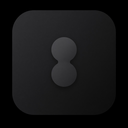
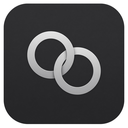
Show Integrations, Skills, Help, Library, and Scheduled as solid cards.

diff --git a/src/components/mind/command-app.tsx b/src/components/mind/command-app.tsx
@@ -404,9 +404,96 @@ function statusWord(status: CapabilityStatus) {
   if (status === "blocked") return "Blocked";
   if (status === "unconfigured") return "Not configured";
   if (status === "local_required") return "Local only";
-  if (status === "paid_required") return "Paid, not called";
-  return "Not implemented";
+ if (status === "paid_required") return "Paid, not called";
+ return "Not implemented";
 }
+
+const CAPABILITY_MARK: Record<string, string> = {
+  "chat.grok": "grok",
+  "chat.openai": "openai",
+  "chat.anthropic": "claude",
+  "chat.gemini": "gemini",
+  "chat.openrouter": "openrouter",
+  "chat.local": "computer",
+  policy: "safety",
+  memory: "memory",
+  supabase: "datasource",
+  rea: "tools",
+  pc: "computer",
+  research: "research",
+  agents: "bots",
+  "agents.planner": "plan",
+  "agents.worker": "bots",
+  "agents.hosted": "vercel",
+  "browser.inspect": "browser",
+  gmail: "gmail",
+  image: "media",
+  video: "media",
+  voice: "voice",
+  "shell.palette": "search",
+  "shell.pins": "recent",
+  "chat.router": "connections",
+  notion: "notion",
+  "build.workspace": "build",
+};
+
+const CAPABILITY_PAGE: Partial<Record<string, View>> = {
+  "chat.grok": "connected",
+  "chat.openai": "settings",
+  "chat.anthropic": "settings",
+  "chat.gemini": "settings",
+  "chat.openrouter": "settings",
+  "chat.local": "connected",
+  policy: "settings",
+  memory: "memory",
+  pc: "connected",
+  research: "research",
+  agents: "agents",
+  "agents.planner": "agents",
+  "agents.worker": "agents",
+  "agents.hosted": "agents",
+  "browser.inspect": "tools",
+  gmail: "connected",
+  image: "connected",
+  video: "connected",
+  voice: "settings",
+  "shell.palette": "command",
+  "chat.router": "settings",
+  notion: "connected",
+  "build.workspace": "build",
+};
+
+const CAPABILITY_CONNECT: Partial<Record<string, string>> = {
+  "chat.openai": "OpenAI",
+  "chat.anthropic": "Claude",
+  "chat.gemini": "Gemini",
+  "chat.openrouter": "OpenRouter",
+  notion: "Notion",
+};
+
+function openCapability(id: string, setView: (view: View) => void, setSettingsPane: (pane: null | "general" | "connections" | "voice" | "pages" | "data" | "safety") => void) {
+  const page = CAPABILITY_PAGE[id];
+  if (!page) return;
+  const connect = CAPABILITY_CONNECT[id];
+  setView(page);
+  setSettingsPane(page !== "settings" ? null : id === "voice" ? "voice" : connect ? "connections" : null);
+  if (connect) {
+    window.setTimeout(() => {
+      window.dispatchEvent(new CustomEvent("adrian-open-connect", { detail: { name: connect } }));
+      document.getElementById(connect === "Notion" ? "owner-notion-search" : "owner-api-connect")?.scrollIntoView({ block: "center" });
+    }, 60);
+  }
+}
+
+const SKILL_MARK: Record<string, string> = {
+  projects: "projects",
+  chats: "chat",
+  notes: "memory",
+  notion: "notion",
+  browser: "browser",
+  voice: "voice",
+  gmail: "gmail",
+};
 
 function humanAction(action: string) {
   const map: Record<string, string> = {
@@ -4874,7 +4961,7 @@ export function CommandApp() {
                 <span className="rounded-panel bg-accent px-3 py-2 text-sm text-white">On this device ({ws.projects.length})</span>
                 <span className="rounded-panel border border-line px-3 py-2 text-sm text-muted">External (2) · unchanged</span>
               </div>
-              <div className="mt-4 grid gap-3 lg:grid-cols-2">
+              <div id="owner-projects">
                 {ws.projects.length === 0 && (
                   <article className="empty-state lg:col-span-2">
                     <img src="/empty/empty-folder.svg" alt="" />
@@ -5380,13 +5467,16 @@ export function CommandApp() {
                 </div>
               </div>
               <input value={skillQuery} onChange={(event) => setSkillQuery(event.target.value)} placeholder="Search skills" className="min-h-11 w-full rounded-panel border border-line bg-surface px-3 text-sm" />
-              <div className="grid gap-3 md:grid-cols-2">
+              <div id="owner-skills">
                 {(skillQuery.trim() ? searchSkills(skillQuery) : SKILLS).map((skill) => {
                   const on = skill.kind === "built-in" && enabledSkills[skill.id] !== false;
                   return (
-                    <article key={skill.id} className="dense-card p-3">
-                      <div className="flex items-center justify-between gap-2">
-                        <h3 className="font-semibold">{skill.name}</h3>
+                    <article key={skill.id} className="skill-card">
+                      <div className="flex items-start justify-between gap-3">
+                        <div className="flex min-w-0 items-center gap-3">
+                          <img src={`/brand/marks/${SKILL_MARK[skill.id] ?? "skills"}.png`} alt="" className="size-8 shrink-0 rounded-lg" />
+                          <h3 className="font-semibold">{skill.name}</h3>
+                        </div>
                         <span className="rounded-full border border-line px-2 py-0.5 text-xs text-muted">{skill.kind === "built-in" ? (on ? "On" : "Off") : "Not installed"}</span>
                       </div>
                       <p className="mt-2 text-sm">{skill.description}</p>
@@ -5424,7 +5514,10 @@ export function CommandApp() {
               </div>
               {skillStorageError && <p className="rounded-panel border border-danger/40 p-3 text-sm text-danger" role="alert">{skillStorageError}</p>}
               {notice && <p className="voice-copy rounded-panel border border-line bg-surface px-3 py-2 text-sm text-muted">{presentVoiceCopy(notice)}</p>}
-              <LocalSkillsTools skills={SKILLS} enabledSkills={Object.fromEntries(SKILLS.map((skill) => [skill.id, skill.kind === "built-in" && enabledSkills[skill.id] !== false]))} />
+              <details className="owner-fold">
+                <summary>Draft library</summary>
+                <LocalSkillsTools skills={SKILLS} enabledSkills={Object.fromEntries(SKILLS.map((skill) => [skill.id, skill.kind === "built-in" && enabledSkills[skill.id] !== false]))} />
+              </details>
           </section>
           {view === "files" && (
             <section className="page-shell">
@@ -5441,8 +5534,8 @@ export function CommandApp() {
                   <button type="button" className="min-h-11 rounded-panel border border-line px-4 text-sm" onClick={() => setCloudPickerOpen(true)}>Browse Drive</button>
                 </div>
               </div>
-              <div className="mt-4 grid gap-3 lg:grid-cols-[16rem_1fr]">
-                <aside className="dense-card card-texture p-3 text-sm">
+              <div id="owner-library">
+                <aside className="library-list text-sm">
                   <p className="font-semibold">Text copies</p>
                   <p className="mt-2 text-xs text-muted">These are the words you attached, not the original file and not a cloud drive.</p>
                   <ul className="mt-3 space-y-1">
@@ -5503,23 +5596,31 @@ export function CommandApp() {
                   <img src="/brand/marks/integrations.png" alt="" className="size-8 rounded-lg" />
                   <div>
                     <h2 className="font-display text-3xl font-bold">Integrations</h2>
-                    <p className="text-sm text-muted">{system}</p>
                     <p className="text-xs text-muted">Last check {stamp(checkedAt) || checkedAt}. Green means that behavior was verified here. Configured means a key or setting exists and a live call was not verified.</p>
                   </div>
                 </div>
               </div>
-              <div className="mt-4 grid gap-3 sm:grid-cols-2 xl:grid-cols-3">
+              <div id="owner-integrations" className="mt-4 grid gap-3 sm:grid-cols-2 xl:grid-cols-3">
                 {CAPABILITIES.map((item) => {
                   const live = isVerifiedCapability(item.status);
+                  const page = CAPABILITY_PAGE[item.id];
                   return (
-                    <article key={item.id} className="dense-card card-texture p-4">
-                      <div className="flex items-center justify-between gap-3">
-                        <h3 className="text-sm font-semibold">{item.name}</h3>
+                    <article key={item.id} className="integration-card">
+                      <div className="flex items-start justify-between gap-3">
+                        <div className="flex min-w-0 items-center gap-3">
+                          <img src={`/brand/marks/${CAPABILITY_MARK[item.id] ?? "integrations"}.png`} alt="" className="size-8 shrink-0 rounded-lg" />
+                          <h3 className="text-sm font-semibold">{item.name}</h3>
+                        </div>
                         <span className={`rounded-full border px-2 py-0.5 text-xs ${live ? "border-ok/40 text-ok" : item.status === "blocked" || item.status === "paid_required" ? "border-danger/40 text-danger" : "border-line text-muted"}`}>
                           {statusWord(item.status)}
                         </span>
                       </div>
                       <p className="mt-2 text-sm text-muted">{item.why}</p>
+                      {page && (
+                        <button type="button" className="mt-3 min-h-11 rounded-panel border border-line px-3 text-sm" onClick={() => openCapability(item.id, setView, setSettingsPane)}>
+                          {CAPABILITY_CONNECT[item.id] ? "Set up" : "Open"}
+                        </button>
+                      )}
                     </article>
                   );
                 })}
@@ -5583,7 +5684,7 @@ export function CommandApp() {
                 aria-label="Search help"
                 className="input-glow min-h-11 w-full rounded-panel border border-line bg-surface/80 px-3 text-sm"
               />
-              <div className="divide-y divide-white/8 overflow-hidden rounded-xl border border-white/8">
+              <div id="owner-help">
                 {[
                   { id: "chat", label: "Send a chat", detail: "Type in the field and press Enter, or press the blue button. An empty field opens Speak.", mark: "/brand/marks/chat.png", open: () => setView("command") },
                   { id: "speak", label: "Speak", detail: "Opens the call screen with camera, screen share, mute, and end.", mark: "/brand/marks/speak.png", open: () => setSpeakStageOpen(true) },
@@ -5612,8 +5713,13 @@ export function CommandApp() {
           {view === "settings" && (
             <section className="page-shell mx-auto max-w-3xl space-y-4">
               <div className="page-hero">
-                <h2 className="font-display text-3xl font-bold">Settings</h2>
-                <p className="text-sm text-muted">Preferences stay in this browser. Server keys are not edited here.</p>
+                <div className="flex items-center gap-3">
+                  <img src="/brand/marks/settings.png" alt="" className="size-8 rounded-lg" />
+                  <div>
+                    <h2 className="font-display text-3xl font-bold">Settings</h2>
+                    <p className="text-sm text-muted">Preferences stay in this browser. Server keys are not edited here.</p>
+                  </div>
+                </div>
               </div>
               <nav className="settings-index" aria-label="Settings sections" hidden={settingsPane !== null}>
                 {[

diff --git a/src/components/mind/fleet-panels.tsx b/src/components/mind/fleet-panels.tsx
@@ -669,19 +669,13 @@ export function FleetPanel({
   }
 
   if (mode === "scheduled") {
-    const workerDetail =
-      workerHealthState.status === "ready"
-        ? workerHealthState.health.detail
-        : workerHealthState.status === "loading"
-          ? "Checking the worker."
-          : null;
     return (
       <section className="page-shell">
         <div className="page-hero mb-4 flex items-center gap-3">
           <img src="/brand/marks/scheduled.png" alt="" className="size-8 rounded-lg" />
           <div>
             <h2 className="font-display text-3xl font-bold">Scheduled</h2>
-            <p className="text-sm text-muted">{workerDetail ? `${workerDetail} ` : ""}Jobs wait on this device. Nothing runs until you start it.</p>
+            <p className="text-sm text-muted">Jobs wait on this device. Nothing runs until you start it.</p>
           </div>
         </div>
         <ul className="mb-2 space-y-2">
@@ -691,9 +685,9 @@ export function FleetPanel({
           <summary className="min-h-11 cursor-pointer">Worker command</summary>
           <p className="pb-2 text-xs text-muted">One pass: node --experimental-strip-types scripts/schedule-tick.mjs. Stay up: node --experimental-strip-types scripts/schedule-worker.mjs. Interval: MIND_WORKER_INTERVAL_MS.</p>
         </details>
-        <div className="solid-form mt-4">
+        <div id="owner-scheduled" className="solid-form mt-4">
           <p className="text-sm text-muted">Add a daily job. It waits here until you run due schedules or the worker is started.</p>
-          <div className="mt-3 grid gap-2 sm:grid-cols-2 lg:grid-cols-4">
+          <div className="job-fields mt-3">
           <label className="text-sm">Name
             <input value={jobName} onChange={(event) => setJobName(event.target.value)} placeholder="Morning notes" aria-label="Job name" className="mt-1 min-h-11 w-full rounded-panel border border-line bg-surface px-3 text-sm" />
           </label>
@@ -737,7 +731,7 @@ export function FleetPanel({
           {ws.schedules.map((job) => (
             <li key={job.id} className="dense-card p-3 text-sm">
               <p className="font-semibold">{job.name}</p>
-              <p className="mt-1 text-sm text-muted">{job.enabled ? "On." : "Off."} {job.clockHour == null ? `Runs every ${job.intervalMinutes} minutes.` : `Runs daily at ${String(job.clockHour).padStart(2, "0")}:${String(job.clockMinute ?? 0).padStart(2, "0")} ${job.timeZone || "UTC"}.`}</p>
+              <p className="mt-1 text-sm text-muted">{job.enabled ? "On." : "Off."} {job.clockHour == null ? (job.intervalMinutes === 1440 ? "Runs once a day. Add an hour to choose the time." : `Runs every ${job.intervalMinutes} minutes.`) : `Runs daily at ${String(job.clockHour).padStart(2, "0")}:${String(job.clockMinute ?? 0).padStart(2, "0")} ${job.timeZone || "UTC"}.`}</p>
               <p className="text-sm text-muted">Next run {job.nextRunAt}. Last run {job.lastRunAt ?? "never"}. {job.lastError || "No error."}</p>
               <button type="button" className="mt-2 min-h-11 rounded-panel border border-line px-3 text-sm" onClick={() => setWs((prev) => setScheduleEnabled(prev, job.id, !job.enabled))}>{job.enabled ? "Turn off" : "Turn on"}</button>
             </li>
@@ -761,7 +755,7 @@ export function FleetPanel({
           </div>
         </div>
       </div>
-      <div className="mt-4 flex flex-wrap gap-2">
+      <div id="owner-tools" className="mt-4 flex flex-wrap gap-2">
         <input value={pageUrl} onChange={(event) => setPageUrl(event.target.value)} placeholder="https://example.com" className="min-h-11 min-w-0 flex-1 rounded-panel border border-line bg-surface px-3 text-sm" />
         <button
           type="button"

diff --git a/src/components/mind/gpt-shell.css b/src/components/mind/gpt-shell.css
@@ -1204,3 +1204,134 @@ form.thread-composer {
     min-height: 2.75rem !important;
   }
 }
+
+#owner-integrations {
+  display: grid !important;
+  grid-template-columns: minmax(0, 1fr) !important;
+  gap: 0.75rem !important;
+  margin-top: 1rem;
+}
+
+@media (min-width: 768px) {
+  #owner-integrations {
+    grid-template-columns: repeat(2, minmax(0, 1fr)) !important;
+  }
+}
+
+@media (min-width: 1100px) {
+  #owner-integrations {
+    grid-template-columns: repeat(3, minmax(0, 1fr)) !important;
+  }
+}
+
+#owner-integrations > .integration-card {
+  min-width: 0;
+  background: #141416 !important;
+  background-image: none !important;
+  border: 1px solid rgb(255 255 255 / 0.08) !important;
+  border-radius: 0.9rem !important;
+  padding: 0.9rem !important;
+}
+
+#owner-integrations > .integration-card p {
+  display: block !important;
+  overflow: visible !important;
+  white-space: normal !important;
+  -webkit-line-clamp: unset !important;
+  color: #a1a1aa !important;
+}
+
+#owner-integrations > .integration-card button {
+  background: #1c1c1f !important;
+  color: #f4f4f5 !important;
+  text-transform: none !important;
+}
+
+#owner-skills,
+#owner-projects,
+#owner-help,
+#owner-library {
+  display: grid !important;
+  grid-template-columns: minmax(0, 1fr) !important;
+  gap: 0.75rem !important;
+}
+
+@media (min-width: 900px) {
+  #owner-skills,
+  #owner-projects {
+    grid-template-columns: repeat(2, minmax(0, 1fr)) !important;
+  }
+
+  #owner-library {
+    grid-template-columns: 16rem minmax(0, 1fr) !important;
+  }
+}
+
+#owner-skills > .skill-card,
+#owner-projects > article,
+#owner-library > .library-list,
+#owner-library > div,
+#owner-scheduled,
+#owner-tools,
+.owner-fold {
+  min-width: 0;
+  background: #141416 !important;
+  background-image: none !important;
+  border: 1px solid rgb(255 255 255 / 0.08) !important;
+  border-radius: 0.9rem !important;
+  padding: 0.9rem !important;
+}
+
+#owner-help > button {
+  display: flex !important;
+  min-height: 4.25rem;
+  align-items: center;
+  gap: 0.75rem;
+  border: 1px solid rgb(255 255 255 / 0.08) !important;
+  border-radius: 0.9rem !important;
+  background: #141416 !important;
+  padding: 0.75rem 0.9rem !important;
+  text-align: left;
+}
+
+#owner-skills > .skill-card p,
+#owner-projects > article p,
+#owner-help > button span {
+  display: block !important;
+  overflow: visible !important;
+  white-space: normal !important;
+  -webkit-line-clamp: unset !important;
+  text-transform: none !important;
+  letter-spacing: 0 !important;
+}
+
+#owner-scheduled .job-fields {
+  display: grid !important;
+  grid-template-columns: minmax(0, 1fr) !important;
+  gap: 0.75rem !important;
+}
+
+@media (min-width: 900px) {
+  #owner-scheduled .job-fields {
+    grid-template-columns: 1.4fr 1.2fr 6rem auto !important;
+    align-items: end !important;
+  }
+}
+
+.owner-fold > summary {
+  min-height: 2.75rem;
+  cursor: pointer;
+  font-weight: 600;
+}
+
+#owner-tools {
+  align-items: center;
+}
+
+#owner-tools input,
+#owner-tools button,
+#owner-skills button,
+#owner-scheduled button,
+#owner-projects button {
+  text-transform: none !important;
+}
